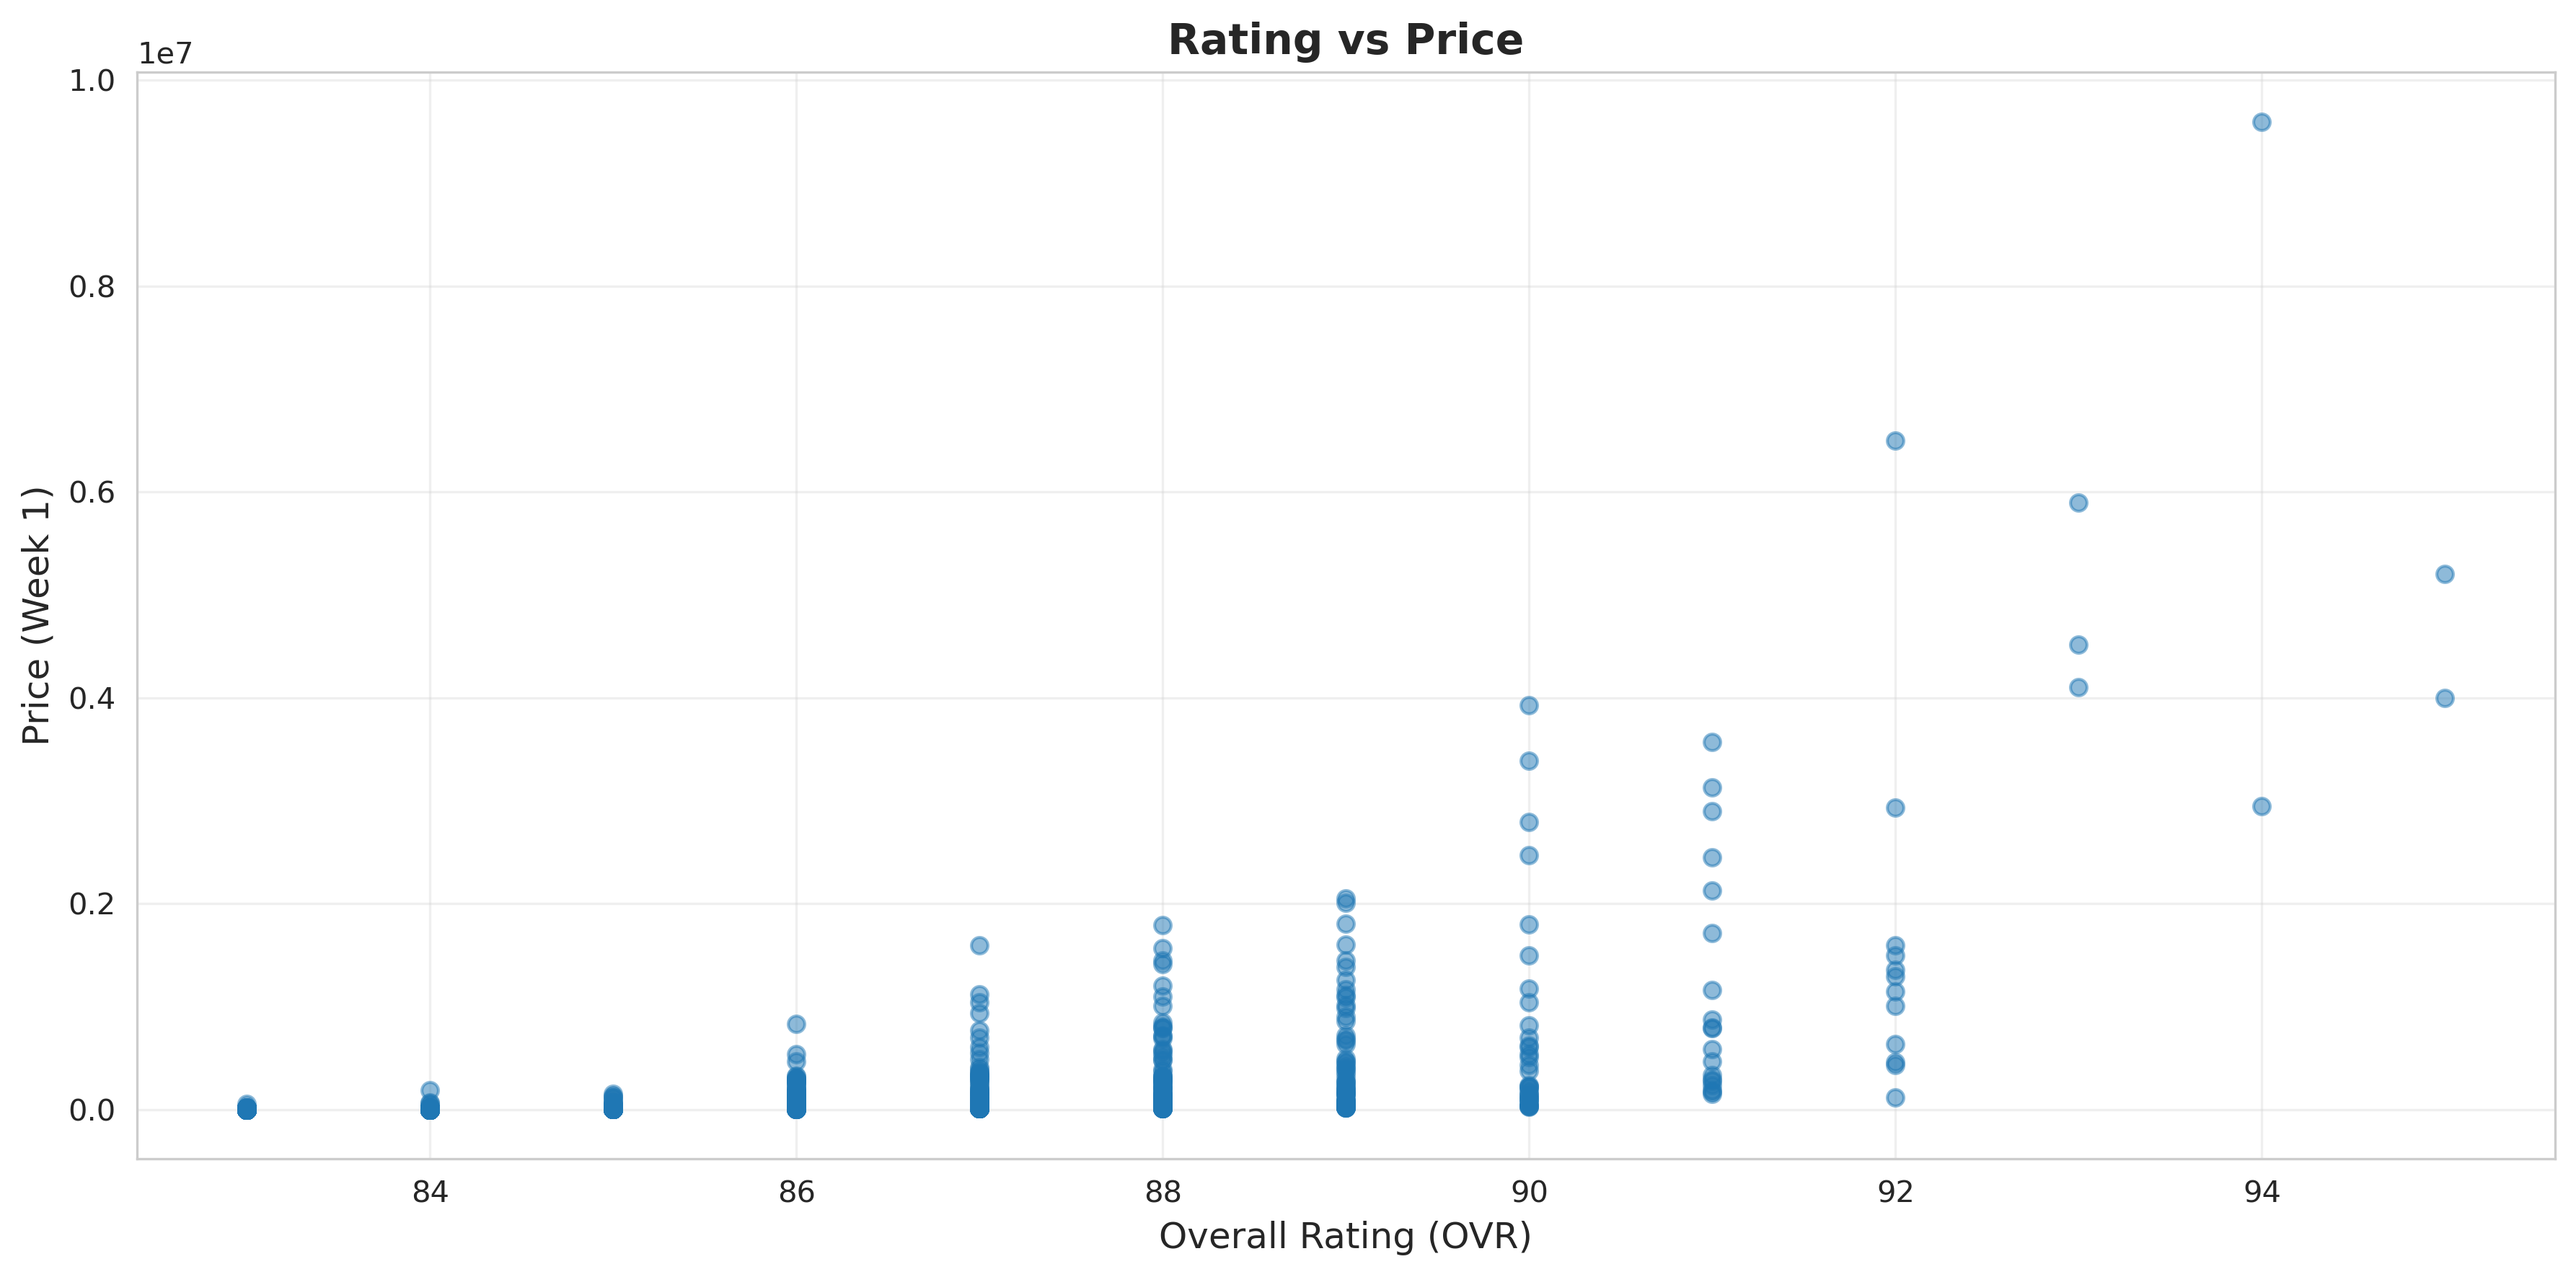
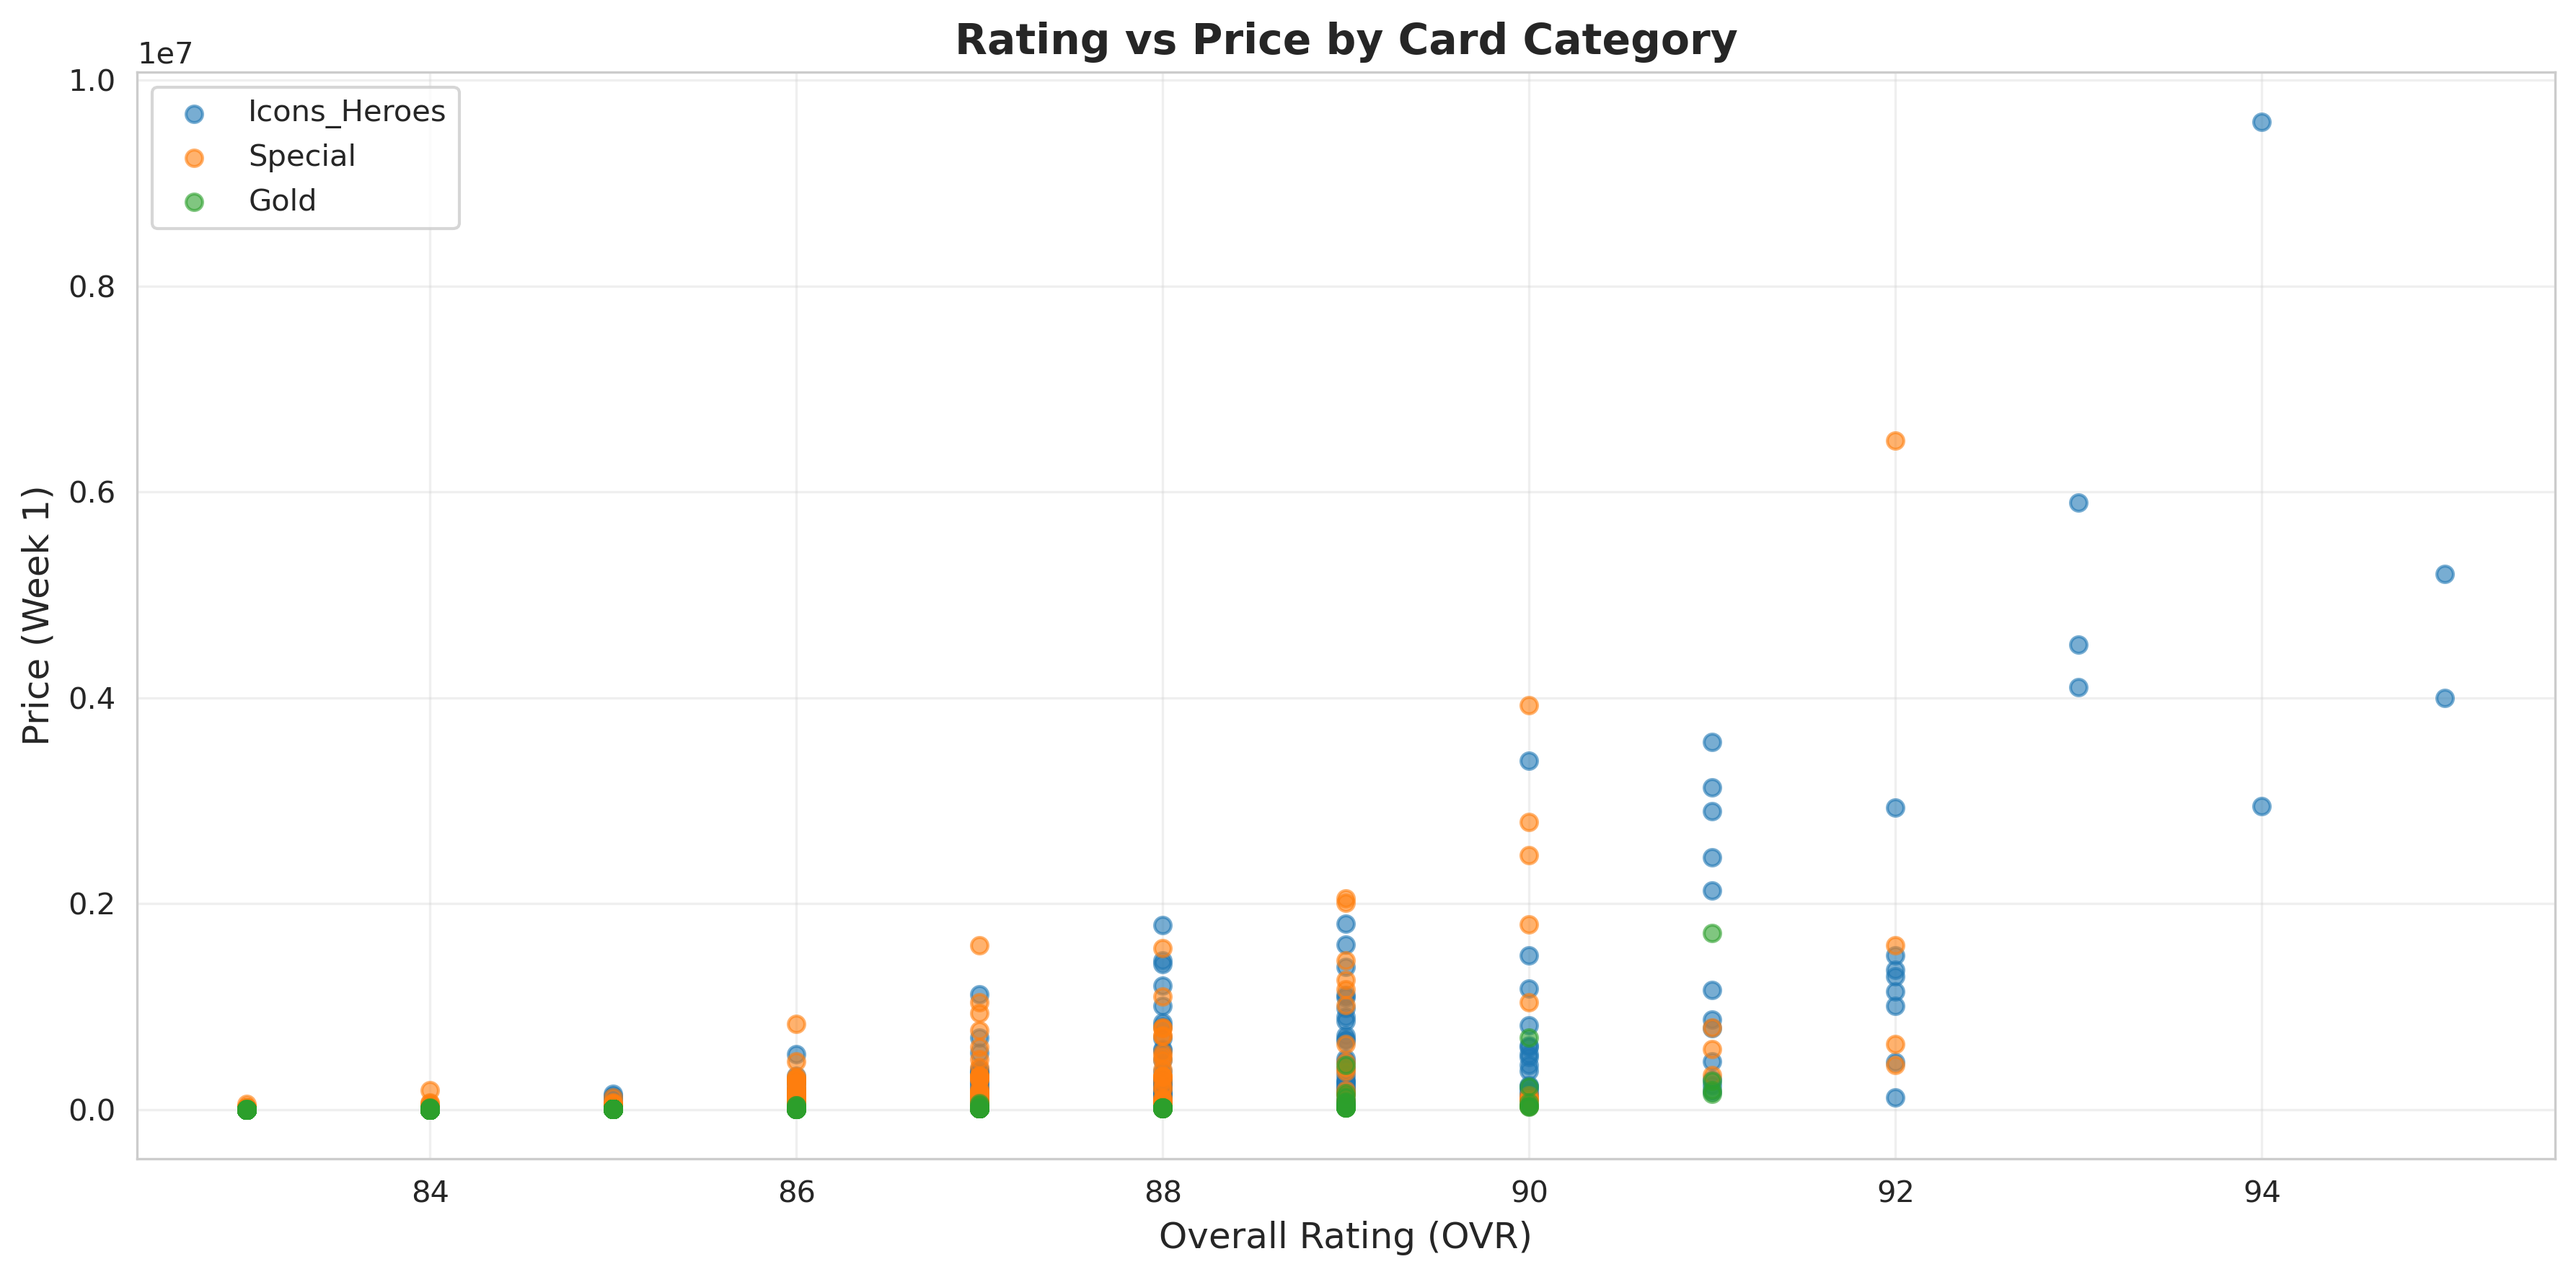
Fixed warning and improved terminal output for EDA analysis + updated figure 2

diff --git a/src/eda_analysis.py b/src/eda_analysis.py
@@ -1,26 +1,25 @@
 """
-Exploratory Data Analysis using Pandas and Matplotlib. Using week1 prices merged dataset.
+Exploratory Data Analysis for EA FC 26 Player Price Prediction
 
-Will analyze:
+Generates 6 visualizations exploring relationships between player attributes and prices:
 1. Price distribution (normal and log scale)
-2. Rating vs Price
-3. Price by Card Category
-4. Price by Position Cluster
-5. Correlation Matrix
-6. Top 4 Attributes Combined
+2. Rating vs Price scatter
+3. Price by Card Category boxplot
+4. Price by Position Cluster bar chart
+5. Correlation Matrix heatmap
+6. Top 4 Attributes vs Price (4-panel scatter)
 """
-
+import logging
+import os
 import pandas as pd
 import matplotlib.pyplot as plt
 import seaborn as sns
-import logging
-import os
 
-# setup logging
+# Setup logging
 logging.basicConfig(level=logging.INFO, format='%(levelname)s: %(message)s')
 logger = logging.getLogger(__name__)
 
-# style configurations
+# Style configurations
 sns.set_style("whitegrid")
 plt.rcParams['figure.figsize'] = (12, 6)
 
@@ -30,67 +29,65 @@ OUTPUT_DIR = "/files/Capstone_Project_ST/results/figures"
 
 if __name__ == "__main__":
     try:
-        # data loading
-        logger.info("Starting EDA visualizations")
-        logger.info("Loading data")
+        # Load data
         df = pd.read_csv(DATA_FILE)
-        logger.info(f"Dataset loaded: {df.shape[0]} players, {df.shape[1]} columns")
-        
-        # basic price statistics
-        logger.info("Price statistics (for week 1 prices):")
-        print(df['price_w1'].describe())
-        
-        # create output directory
+        logger.info("Loaded %d players", len(df))
+        print()
+
+        # Create output directory
         os.makedirs(OUTPUT_DIR, exist_ok=True)
-        
-        #PRICE DISTRIBUTION (NORMAL AND LOG SCALE)
-        logger.info("Generating price distribution visualization")
+
+        logger.info("Generating 6 EDA visualizations...")
+        print()
+
+        # VISUZALIZATION 1: PRICE DISTRIBUTION (NORMAL AND LOG SCALE)
+        # To see overall price distribution and log-scale due to skewness
         fig, axes = plt.subplots(1, 2, figsize=(14, 5))
-        
-        # normal scale
+
+        # Normal scale
         axes[0].hist(df['price_w1'], bins=50, edgecolor='black', alpha=0.7)
         axes[0].set_xlabel('Price (Week 1)', fontsize=12)
         axes[0].set_ylabel('Frequency', fontsize=12)
         axes[0].set_title('Price Distribution', fontsize=14, fontweight='bold')
         axes[0].grid(alpha=0.3)
-        
-        # log scale because many player prices are low
+
+        # Log scale as data is right-skewed
         axes[1].hist(df['price_w1'], bins=50, edgecolor='black', alpha=0.7)
         axes[1].set_xlabel('Price (Week 1)', fontsize=12)
         axes[1].set_ylabel('Frequency (log scale)', fontsize=12)
         axes[1].set_title('Price Distribution (Log Scale)', fontsize=14, fontweight='bold')
         axes[1].set_yscale('log')
         axes[1].grid(alpha=0.3)
-        
-        # save price distribution
+
+        # Save visualization
         plt.tight_layout()
         plt.savefig(f'{OUTPUT_DIR}/01_price_distribution.png', dpi=300, bbox_inches='tight')
-        logger.info("Saved to results/figures/01_price_distribution.png")
+        logger.info("→ 01_price_distribution.png")
         plt.close()
-        
-        
-        #RATING VS PRICE
-        logger.info("Generating rating vs price visualization")
+
+
+        #VISUALIZATION 2: RATING VS PRICE
+        # To see how player rating affects price
         plt.figure(figsize=(12, 6))
-        plt.scatter(df['rating'], df['price_w1'], alpha=0.5, s=30)
+        for category in df['card_category'].unique():
+            subset = df[df['card_category'] == category]
+            plt.scatter(subset['rating'], subset['price_w1'],
+                    label=category, alpha=0.6, s=30)
         plt.xlabel('Overall Rating (OVR)', fontsize=12)
         plt.ylabel('Price (Week 1)', fontsize=12)
-        plt.title('Rating vs Price', fontsize=14, fontweight='bold')
+        plt.title('Rating vs Price by Card Category', fontsize=14, fontweight='bold')
+        plt.legend()
         plt.grid(alpha=0.3)
         plt.tight_layout()
-        
-        # save rating vs price
+
+        # Save visualization
         plt.savefig(f'{OUTPUT_DIR}/02_rating_vs_price.png', dpi=300, bbox_inches='tight')
-        logger.info("Saved to results/figures/02_rating_vs_price.png")
+        logger.info("→ 02_rating_vs_price.png")
         plt.close()
-        
-        # correlation between rating and price
-        corr_rating = df[['rating', 'price_w1']].corr().iloc[0, 1]
-        logger.info(f"Correlation between rating and price: {corr_rating:.3f}")
-        
-        
-        #PRICE BY CARD CATEGORY
-        logger.info("Generating price by card category visualization")
+
+
+        # VISUALIZATION 3: PRICE BY CARD CATEGORY
+        # To see how different card categories affect price
         plt.figure(figsize=(10, 6))
         df.boxplot(column='price_w1', by='card_category', ax=plt.gca())
         plt.title('Price by Card Category', fontsize=14, fontweight='bold')
@@ -100,23 +97,19 @@ if __name__ == "__main__":
         plt.xticks(rotation=0)
         plt.grid(alpha=0.3)
         plt.tight_layout()
-        
-        # save price by card category
+
+        # Save visualization
         plt.savefig(f'{OUTPUT_DIR}/03_price_by_category.png', dpi=300, bbox_inches='tight')
-        logger.info("Saved to results/figures/03_price_by_category.png")
+        logger.info("→ 03_price_by_category.png")
         plt.close()
-        
-        # average price by category
-        logger.info("Average price by card category:")
-        category_stats = df.groupby('card_category')['price_w1'].agg(['mean', 'median', 'count'])
-        print(category_stats)
-        
-        
-        #PRICE BY POSITION CLUSTER
-        logger.info("Generating price by position cluster visualization")
-        position_cols = ['cluster_cb', 'cluster_fullbacks', 'cluster_mid', 'cluster_att_mid', 'cluster_st']
-        position_names = ['Center Backs', 'Fullbacks', 'Midfielders', 'Attacking Midfielders', 'Strikers']
-        
+
+
+        # VISUALIZATION 4: PRICE BY POSITION CLUSTER
+        # To see average price by position clusters with error bars for std deviation
+        position_cols = ['cluster_cb', 'cluster_fullbacks', 'cluster_mid',
+            'cluster_att_mid', 'cluster_st']
+        position_names = ['Center Backs', 'Fullbacks', 'Midfielders',
+            'Attacking Midfielders', 'Strikers']
         position_prices = []
         for col in position_cols:
             if col in df.columns:
@@ -124,105 +117,111 @@ if __name__ == "__main__":
                 position_prices.append(players_in_pos['price_w1'].mean())
             else:
                 position_prices.append(0)
-        
+
         plt.figure(figsize=(10, 6))
-        bars = plt.bar(position_names, position_prices, color='steelblue', edgecolor='black', alpha=0.7)
+        bars = plt.bar(position_names, position_prices, color='steelblue',
+            edgecolor='black', alpha=0.7)
         plt.xlabel('Position Cluster', fontsize=12)
         plt.ylabel('Average Price (Week 1)', fontsize=12)
         plt.title('Average Price by Position Cluster', fontsize=14, fontweight='bold')
         plt.xticks(rotation=45, ha='right')
         plt.grid(axis='y', alpha=0.3)
-        
-        # add value labels on bars
+
+        # Add value labels on bars for better readability
         for bar, price in zip(bars, position_prices):
             height = bar.get_height()
             plt.text(bar.get_x() + bar.get_width()/2., height,
                      f'{price:,.0f}',
                      ha='center', va='bottom', fontsize=10)
-        
+
+        # Save visualization
         plt.tight_layout()
         plt.savefig(f'{OUTPUT_DIR}/04_price_by_position.png', dpi=300, bbox_inches='tight')
-        logger.info("Saved to results/figures/04_price_by_position.png")
+        logger.info("→ 04_price_by_position.png")
         plt.close()
-        
-        
-        #CORRELATION MATRIX
-        logger.info("Generating correlation matrix")
-        numeric_cols = ['rating', 'pace', 'shooting', 'passing', 'dribbling', 'defending', 'physical', 'skill_moves', 'weak_foot', 'num_playstyles','num_playstyles_plus', 'num_positions', 'price_w1']
-        
-        # filter to only existing columns
+
+
+        # VISUALIZATION 5: CORRELATION MATRIX
+        # To see correlations between numeric attributes and price
+        numeric_cols = ['rating', 'pace', 'shooting', 'passing', 'dribbling',
+                       'defending', 'physical', 'skill_moves', 'weak_foot', 
+                       'num_playstyles', 'num_playstyles_plus', 'num_positions', 'price_w1']   
+
+        # Ensure columns exist
         numeric_cols = [col for col in numeric_cols if col in df.columns]
-        
         corr_matrix = df[numeric_cols].corr()
         price_corr = corr_matrix['price_w1'].sort_values(ascending=False)
-        
-        logger.info("Correlation with price:")
-        print(price_corr)
-        
-        # correlation heatmap
+
+        # Correlation heatmap
         plt.figure(figsize=(12, 10))
         sns.heatmap(corr_matrix, annot=True, fmt='.2f', cmap='coolwarm', center=0,
                     square=True, linewidths=1, cbar_kws={"shrink": 0.8})
         plt.title('Correlation Matrix - Player Attributes', fontsize=14, fontweight='bold')
+
+        # Save visualization
         plt.tight_layout()
         plt.savefig(f'{OUTPUT_DIR}/05_correlation_matrix.png', dpi=300, bbox_inches='tight')
-        logger.info("Saved to results/figures/05_correlation_matrix.png")
+        logger.info("→ 05_correlation_matrix.png")
         plt.close()
-        
-        
-        #TOP 4 ATTRIBUTES COMBINED
-        logger.info("Generating top 4 attributes combined visualization")
+
+
+        # VISUALIZATION 6: TOP 4 ATTRIBUTES COMBINED VS PRICE
+        # To see relationships of top 4 correlated attributes with price
         fig, axes = plt.subplots(2, 2, figsize=(14, 10))
-        
+
         # Pace vs Price
         axes[0, 0].scatter(df['pace'], df['price_w1'], alpha=0.5, s=20, color='green')
         axes[0, 0].set_xlabel('Pace', fontsize=11)
         axes[0, 0].set_ylabel('Price (Week 1)', fontsize=11)
         axes[0, 0].set_title('Pace vs Price', fontsize=12, fontweight='bold')
         axes[0, 0].grid(alpha=0.3)
-        
+
         # Dribbling vs Price
         axes[0, 1].scatter(df['dribbling'], df['price_w1'], alpha=0.5, s=20, color='orange')
         axes[0, 1].set_xlabel('Dribbling', fontsize=11)
         axes[0, 1].set_ylabel('Price (Week 1)', fontsize=11)
         axes[0, 1].set_title('Dribbling vs Price', fontsize=12, fontweight='bold')
         axes[0, 1].grid(alpha=0.3)
-        
+
         # Skill Moves vs Price
         axes[1, 0].scatter(df['skill_moves'], df['price_w1'], alpha=0.5, s=20, color='purple')
         axes[1, 0].set_xlabel('Skill Moves', fontsize=11)
         axes[1, 0].set_ylabel('Price (Week 1)', fontsize=11)
         axes[1, 0].set_title('Skill Moves vs Price', fontsize=12, fontweight='bold')
         axes[1, 0].grid(alpha=0.3)
-        
+
         # Weak Foot vs Price
         axes[1, 1].scatter(df['weak_foot'], df['price_w1'], alpha=0.5, s=20, color='red')
         axes[1, 1].set_xlabel('Weak Foot', fontsize=11)
         axes[1, 1].set_ylabel('Price (Week 1)', fontsize=11)
         axes[1, 1].set_title('Weak Foot vs Price', fontsize=12, fontweight='bold')
         axes[1, 1].grid(alpha=0.3)
-        
-        # save top 4 attributes
+
+        # Save visualization
         plt.tight_layout()
         plt.savefig(f'{OUTPUT_DIR}/06_top4_attributes.png', dpi=300, bbox_inches='tight')
-        logger.info("Saved to results/figures/06_top4_attributes.png")
+        logger.info("→ 06_top4_attributes.png")
         plt.close()
-        
-        
-        #SUMMARY
-        logger.info(f"Generated 6 visualizations in results/figures/")
-        logger.info(f"Dataset: {len(df)} players")
-        logger.info(f"Price range: {df['price_w1'].min():,.0f} - {df['price_w1'].max():,.0f}")
-        logger.info(f"Strongest correlation with price: {price_corr.index[1]} ({price_corr.iloc[1]:.3f})")
-        
-    except FileNotFoundError as e: # in case the file name is wrong
-        logger.error(f"File not found: {e}")
-        logger.error("Please check that all required CSV files exist")
-    
+
+
+        # SUMMARY
+        print()
+        logger.info("EDA complete: 6 visualizations saved to results/figures/")
+        logger.info("Price range: %s - %s credits",
+                   f"{df['price_w1'].min():,.0f}",
+                   f"{df['price_w1'].max():,.0f}")
+        logger.info("Strongest correlation with price: %s (r = %.3f)",
+                   price_corr.index[1], price_corr.iloc[1])
+        print()
+
+    except FileNotFoundError as e:
+        logger.error("File not found: %s", e)
+        logger.error("Check that players_with_week1.csv exists in data/processed/")
+
     except KeyError as e:
-        logger.error(f"Column not found: {e}") # in case a column is missing
-        logger.error("Please check that all required columns exist in the dataset")
-    
-    except Exception as e: # in case any other error happens
-        logger.error(f"Unexpected error during EDA: {e}")
+        logger.error("Column not found: %s", e)
+        logger.error("Check that required columns exist in dataset")
+
+    except Exception as e:
+        logger.error("Unexpected error during EDA: %s", e)
         raise
